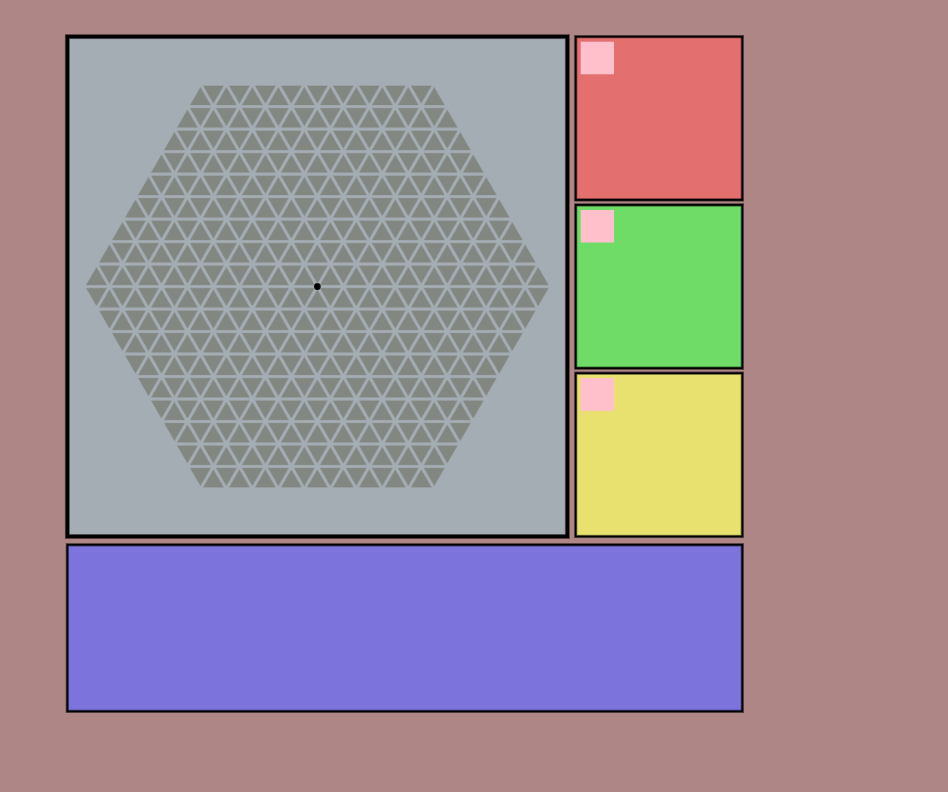
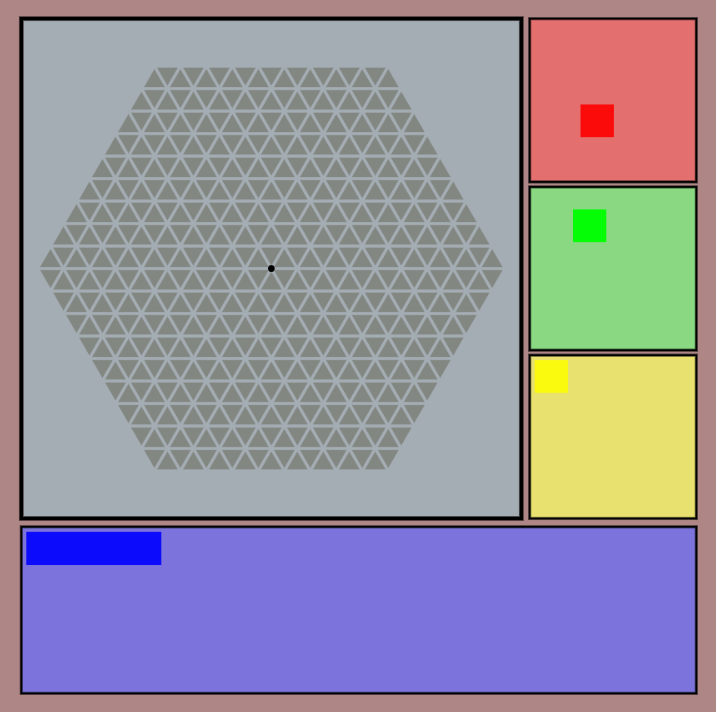
ピースの色をつけた。ドラッグ中のホイールでn_rotが増えるように。

diff --git a/GUI.js b/GUI.js
@@ -50,10 +50,14 @@ class BaseCanvas{
                 if(this.dragging){
                     this.pos = this.pos.add(this.rel.sub(this.rel_before));
                     this.update(this.user);
+                    this.drag_update(this.user);
                 }
             }
         }
         return false;
+    }
+    drag_update(user){
+
     }
     drop(){
         //dropしたあとはdroppedをfalseにする
@@ -74,14 +78,14 @@ var ColorInfo = {
         NONE : "rgb(130, 135, 130)",
         BLUE : "rgba(0,0,255,0.9)",
         RED : "rgba(255,0,0,0.9)",
-        GREEN : "rgba(0,255,0,0.0.9)",
+        GREEN : "rgba(0, 255, 0, 0.96)",
         YELLOW : "rgba(250, 250, 14, 1)"
     },
     forKomadai : {
         NONE : "gray",
         BLUE : "rgba(111, 111, 241, 0.8)",
         RED : "rgba(241, 105, 105, 0.8)",
-        GREEN : "rgba(94, 241, 94, 0.8)",
+        GREEN : "rgba(129, 237, 129, 0.8)",
         YELLOW : "rgba(246, 246, 105, 0.8)"
 
     }
@@ -125,6 +129,7 @@ class GameCanvas extends BaseCanvas{
                 let piece = player.pieces_alive[j];
                 let pc = new PieceCanvas(piece, 0, this.ctx, pos.add(offset.multiply(j)).add(base),
                                         piece_w, piece_h);
+                kc.piececanvases.push(pc);
                 this.all_canvas.push(pc);
             }
 
@@ -135,6 +140,16 @@ class GameCanvas extends BaseCanvas{
         let my_h = this.boardcanvas.w / 3;
         let kc = new MyKomadaiCanvas(this.game, this.my_color, this.ctx, my_pos, my_w, my_h);
         this.all_canvas.push(kc);
+        for(let j=0; j<this.game.players[my_color-1].pieces_alive.length; j++){
+            let base = new Point(sukima, sukima);
+            let offset = new Point(piece_h+sukima, 0);
+            let piece = this.game.players[my_color-1].pieces_alive[j];
+            let pc = new PieceCanvas(piece, 0, this.ctx, my_pos.add(offset.multiply(j)).add(base),
+                                    my_w / 5, my_h / 5);
+            kc.piececanvases.push(pc);
+            this.all_canvas.push(pc);
+        }
+
 
     }
     update(user){
@@ -167,10 +182,10 @@ class GameCanvas extends BaseCanvas{
     drop(canvas){
         let dx = 0;
         let dy = 0;
-        if(canvas.pos.x < this.pos.x) dx = this.pos.x - canvas.pos.x;
-        if(canvas.pos.y < this.pos.y) dy = this.pos.y - canvas.pos.y;
-        if(canvas.pos.x + canvas.w > this.pos.x + this.w) dx = this.pos.x + this.w - (canvas.pos.x + canvas.w);
-        if(canvas.pos.y + canvas.h > this.pos.y + this.h) dy = this.pos.y + this.h - (canvas.pos.y + canvas.h);
+        if(canvas.pos.x < this.pos.x) dx = this.pos.x - canvas.pos.x + 3;
+        if(canvas.pos.y < this.pos.y) dy = this.pos.y - canvas.pos.y + 3;
+        if(canvas.pos.x + canvas.w > this.pos.x + this.w) dx = this.pos.x + this.w - (canvas.pos.x + canvas.w) - 3;
+        if(canvas.pos.y + canvas.h > this.pos.y + this.h) dy = this.pos.y + this.h - (canvas.pos.y + canvas.h) - 3;
         canvas.pos = canvas.pos.add(new Point(dx, dy));
         canvas.dropped = false;
 
@@ -313,9 +328,15 @@ class KomadaiCanvas extends BaseCanvas{
         this.players = game.players;
         this.game = game;
         this.color = color;
+        this.piececanvases = [];
+        this.pos_before = pos.copy();
     }
     update(user, game){
         super.update(user);
+        for(let pc of this.piececanvases){
+            pc.pos = pc.pos.add(this.pos.sub(this.pos_before));
+        }
+        this.pos_before = this.pos.copy();
     }
 
     draw(){
@@ -349,8 +370,15 @@ class PieceCanvas extends BaseCanvas{
     update(user){
         super.update(user);
     }
+    drag_update(user){
+        if(this.dragging && user.wheel != 0){
+            this.n_rot30 += user.wheel;
+            console.log("wheel" + " "+ this.n_rot30);
+        }
+    }
     draw(){
-        this.ctx.fillStyle = "pink";
+        let s_color = ColorInfo.forBoard[S_Color[this.piece.color]];
+        this.ctx.fillStyle = s_color;
         this.ctx.fillRect(this.pos.x, this.pos.y, this.w, this.h);
     }
     // contains_mouse(){

diff --git a/blokus.js b/blokus.js
@@ -102,7 +102,7 @@ class Player{
         this.color = color;
     }
     initialize(n_player){
-        this.pieces = Piece.copy_from_original_all();
+        this.pieces = Piece.copy_from_original_all(true, this.color);
     }
     get pieces_alive(){
         let res = [];

diff --git a/main.js b/main.js
@@ -61,7 +61,5 @@ $(function(){
         user.mouseup = false;
     }
 
-    console.log(game.board.triangles);
-
     setInterval(render, 10);
 });
